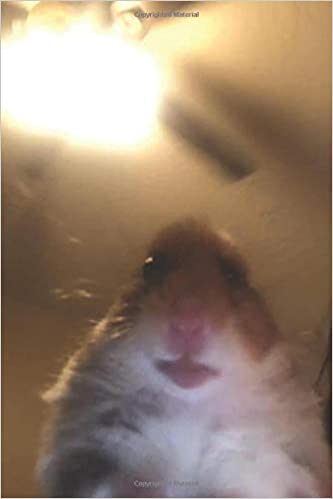
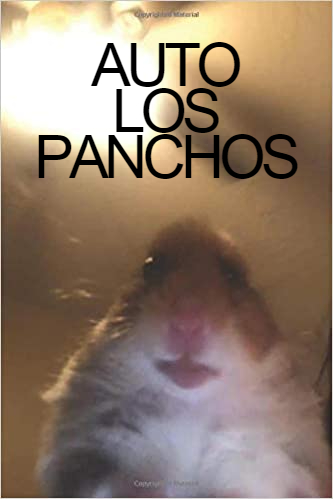
a

Changed region(s): [[0.0901, 0.0601, 0.9009, 0.3607]]

diff --git a/css/menudesplegable.css b/css/menudesplegable.css
@@ -1,0 +1,64 @@
+/* menu */
+
+#menu ul {
+    list-style:none;
+    margin:0;
+    padding:0;
+}
+   
+#menu ul li {
+    background-color:#2e518b;
+}
+   
+/* enlaces del menu */
+   
+#menu ul a {
+    
+    display:block;
+    color:#fff;
+    text-decoration:none;
+    font-weight:400;
+    font-size:15px;
+    padding:10px;
+    letter-spacing:1px;
+}
+   
+/* items del menu */
+   
+#menu ul li {
+
+    position:relative;
+    float:left;
+}
+
+/* menu desplegable */
+
+#menu ul ul {
+
+    display:none;
+    position:absolute;
+    background:#eee;
+    
+}
+   
+/* items del menu desplegable */
+   
+#menu ul ul li {
+    
+    float:none;
+    width:150px
+}
+   
+/* enlaces de los items del menu desplegable */
+   
+#menu ul ul a {
+    line-height:120%;
+    padding:10px 15px;
+}
+   
+/* items del menu desplegable al pasar el ratón */
+   
+#menu ul li:hover > ul {
+    display:block;
+    
+}

diff --git a/php/PaginaPrincipal.php b/php/PaginaPrincipal.php
@@ -1,0 +1,27 @@
+<!DOCTYPE html>
+<html lang="en">
+<head>
+    <meta charset="UTF-8">
+    <meta http-equiv="X-UA-Compatible" content="IE=edge">
+    <meta name="viewport" content="width=device-width, initial-scale=1.0">
+    <link rel="stylesheet" href="../css/menudesplegable.css">
+    <title>Autoescuela los panchos</title>
+</head>
+<body>
+    <img src="../imagenes/pipo.jpg" height="150px" width="1460px" alt="hamster">
+    <nav id="menu">
+    <ul>
+        <li><a href="#">Usuarios</a></li>
+        <li><a href="#">Tematicas</a>
+        <!-- start menu desplegable -->
+            <ul>
+            <li><a href="#">Alta tematica</a></li>
+            </ul>
+        <!-- end menu desplegable -->
+        </li>
+        <li><a href="#">Preguntas</a></li>
+        <li><a href="#">Examenes</a></li>  
+    </ul>
+    </nav>
+</body>
+</html>
